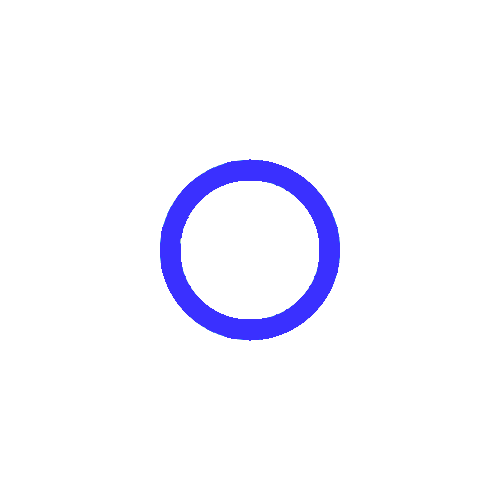
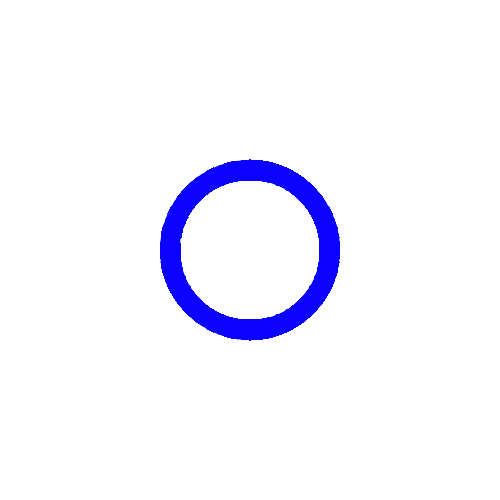
モロコシ、以下略

Changed region(s): [[0.3, 0.3, 0.69, 0.69]]

diff --git a/Assets/Scripts/Characters/Pop.cs b/Assets/Scripts/Characters/Pop.cs
@@ -1,0 +1,24 @@
+using UnityEngine;
+
+public class Pop : MonoBehaviour
+{
+    const float X_MOVE = 5.0f;
+    const float ROTATE_ANGLE = 5.0f;
+    Rigidbody2D _rigidbody;
+    bool _right;
+
+    void Start()
+    {
+        _rigidbody = GetComponent<Rigidbody2D>();
+        _rigidbody.linearVelocity = new(Random.Range(-X_MOVE, X_MOVE), 10.0f);
+
+        _right = _rigidbody.linearVelocityX > 0.0f;
+
+    }
+
+    void Update()
+    {
+
+        transform.Rotate(0.0f, 0.0f, _right ? ROTATE_ANGLE : -ROTATE_ANGLE);
+    }
+}
